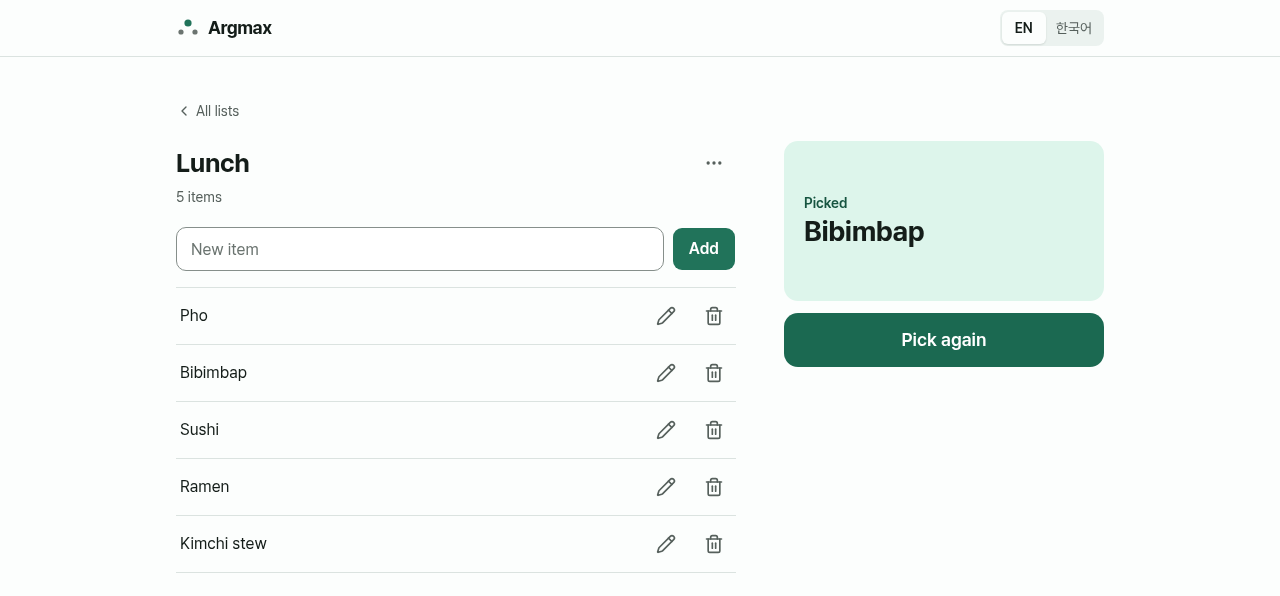
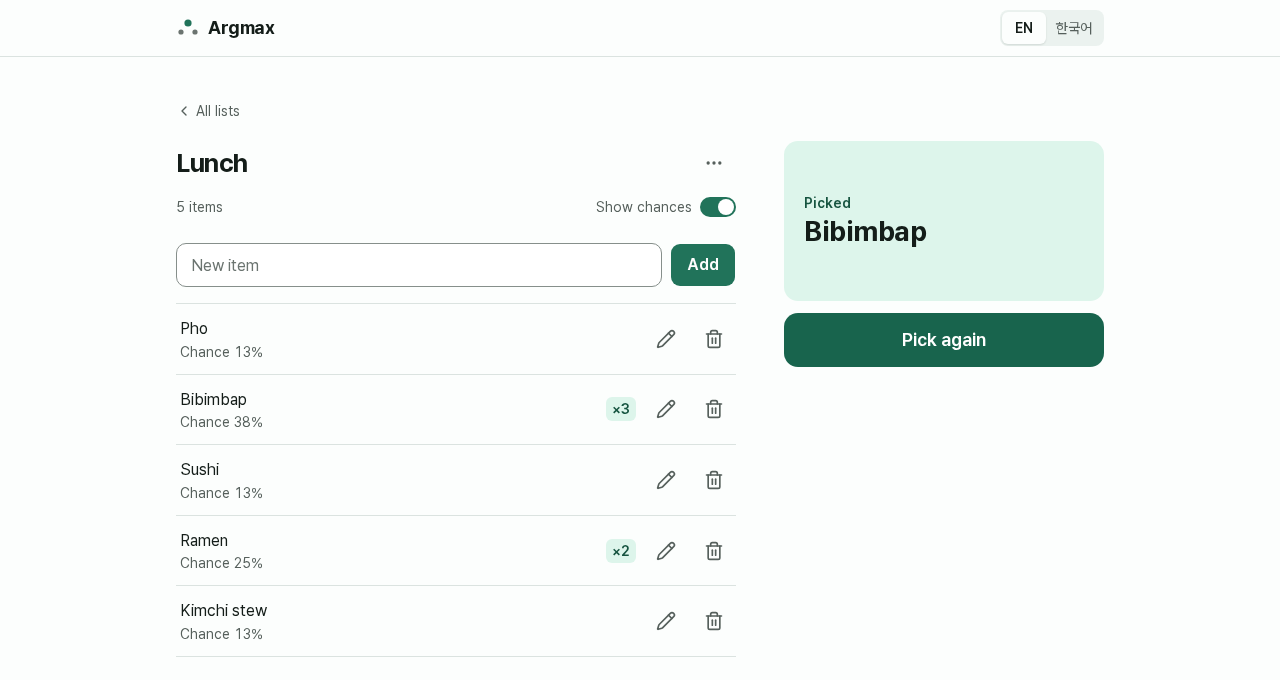
chore: prepare the 0.2.0 release (#42)
- Version 0.2.0 in package.json, and a 0.2.0 changelog section dated
  2026-10-06 that describes weights, the chances switch, share links,
  adding a shared list, and the newer-version message in user-facing
  terms; compare links follow the 0.1.0 pattern.
- README in English and Korean: weights and chances, sharing by link
  with the list after "#" and no server, and "Show chances" in the
  privacy section; the Korean privacy text says 공유 시트 as the app does.
- Screenshots of the list screen at 1280 px with two weighted items,
  chances shown, and "Bibimbap" picked, taken with Playwright against the
  production build (PNG with only IHDR, IDAT, and IEND chunks).
- DESIGN.md and src/index.css no longer tie light-only to 0.1.0.

Refs: ARG-50

diff --git a/src/i18n/ko.ts b/src/i18n/ko.ts
@@ -129,7 +129,7 @@ export const ko: Resources = {
       "저장된 데이터가 손상되었거나 알 수 없는 버전입니다. 데이터는 그대로 두고 편집을 껐습니다.",
     newerTitle: "이 탭에서는 목록을 편집할 수 없습니다",
     newerBody:
-      "더 최신 버전의 Argmax에서 저장한 목록이며 그대로 있습니다. 페이지를 새로고침하세요.",
+      "새 버전의 Argmax에서 저장한 목록입니다. 데이터는 그대로 두었으며, 페이지를 새로고침하면 새 버전으로 열립니다.",
     reload: "새로고침",
     copy: "데이터 복사",
     copied: "저장된 데이터를 복사했습니다.",

diff --git a/src/index.css b/src/index.css
@@ -3,7 +3,7 @@
 @import "shadcn/tailwind.css";
 @import "pretendard/dist/web/variable/pretendardvariable-dynamic-subset.css";
 
-/* Light only in 0.1.0 (see DESIGN.md). Without this, Tailwind maps dark: to
+/* Light only (see DESIGN.md). Without this, Tailwind maps dark: to
    prefers-color-scheme and shadcn's dark: classes would switch on by themselves. */
 @custom-variant dark (&:is(.dark *));
 

diff --git a/CHANGELOG.md b/CHANGELOG.md
@@ -6,31 +6,31 @@ The format is based on [Keep a Changelog](https://keepachangelog.com/en/1.1.0/),
 
 ## [Unreleased]
 
+## [0.2.0] - 2026-10-06
+
 ### Added
 
-- Items have a weight, 1 by default, and a pick selects each item with a chance of its weight divided by the list's total weight, still using the browser's cryptographic random source without bias.
-- The weight is set while editing an item, with − and + buttons, the arrow keys, or by typing, from ×1 to the number of items in the list; a weight left above that number after removing items can only be lowered. Save applies the text and the weight together. Items with a weight other than 1 show a ×N badge.
-- A "Show chances" switch on the list screen shows each item's chance as a whole percentage, "<1%" below 1%, or ">99%" above 99% while other items can still be picked. It is off by default and remembered in this browser.
-- Share a list from its menu as a link. The link holds the list name and each item's text and weight, compressed and encoded on the device into the part of the address after "#", so no server stores or receives it. The dialog says that anyone with the link can see the list, uses the device's share sheet where there is one and copies the link otherwise, warns when a link over 2,000 characters may be cut by some messengers, says when a list is too long for a link that another device could open, and shows the link selected for copying by hand when copying fails.
-- Opening a share link shows the list read-only in the reader's language, with its weights and chances, and Add this list, which saves a separate copy with new ids, opens it, and replaces the link in the address bar and in the history; a double click adds it once. Up to 100 lists still apply; a broken or cut-off link and a link from a newer version each get a message, and inside messenger in-app browsers such as KakaoTalk and LINE a notice suggests opening the link in the phone's browser.
-- Saved data from a newer version of Argmax shows a message that lists can't be edited in this tab, with Reload and Copy data; the data is left unchanged and cannot be deleted from this tab.
+- Weights: while editing an item, give it a weight from ×1 up to the number of items in the list. An item with weight ×3 is three times as likely to be picked as one with ×1. Items with a weight other than 1 show a ×N badge.
+- A "Show chances" switch on the list screen shows each item's chance of being picked as a percentage. It is off by default and remembered in this browser.
+- Share a list as a link from its menu. The link holds the list name, items, and weights in the part after "#", built on the device, so no server stores or receives the list; anyone with the link can see it. The device's share sheet is used where there is one; otherwise the link is copied.
+- Opening a share link shows the list read-only, with its weights and chances, and Add this list saves a separate copy in this browser. A broken link and a link that needs a newer version each say what to do, and in messenger in-app browsers such as KakaoTalk and LINE a notice suggests opening the link in the phone's browser.
+- If lists were saved by a newer version of Argmax, a tab still running an older version says it can't edit them, leaves them unchanged, and offers Reload and Copy data.
 
 ### Changed
 
-- Before the first pick, the desktop result box shows a dice icon and "Your pick appears here" instead of a dash.
-- In an item's edit row, Cancel comes before Save and is a text button.
-- With an empty list, the "Add an item to pick from." hint under Pick is read only by screen readers.
-- The privacy policy says the "Show chances" setting is saved in this browser along with the language.
-- The privacy policy says that share links are created on the device, contain the list itself, and never reach Argmax or Umami, that Argmax cannot remove a list from someone else's link, and that sharing and adding a shared list are counted as usage events without their content.
 - The list menu has Rename, Share, and, set apart, Delete list.
-- Saved data moves to schema version 2, which stores each item's weight. Lists saved by 0.1.0 load with weight 1 on every item and are written in the new format only with the next change.
+- Before the first pick, the desktop result box shows a dice icon and "Your pick appears here" instead of a dash.
+- In an item's edit row, Cancel comes before Save.
+- With an empty list, the hint under Pick is read only by screen readers.
+- Lists saved by 0.1.0 open with every item at weight ×1.
+- The privacy policy covers share links and the "Show chances" setting, and counts sharing and adding a shared list as usage events, without their content.
 
 ### Security
 
-- Names and items are limited to 1,600 UTF-16 code units in addition to 100 characters, so one character cannot carry thousands of combining marks: text over that limit keeps at most eight marks per character, which real scripts stay well below, and stacked marks are clipped so they cannot cover neighboring rows or buttons.
-- Control characters, bidirectional formatting characters, and unpaired surrogates are removed from entered names and items, and line breaks and tabs become spaces; text made only of invisible characters counts as empty. Lists saved by 0.1.0 that contain them are cleaned the same way when loaded, items left empty are dropped, and the cleaned lists are saved with the next change; data that cleaning cannot make valid, such as a list name left empty, is reported as unreadable and left unchanged.
-- The app validates lists before saving them and never writes data that it would reject when loading.
-- Share links are untrusted input: links over 64 KB are rejected before decoding, decompression stops before 256 KB, the version and data must match strict patterns, bytes must be valid UTF-8 without a byte order mark, and the list must pass the stored-data rules; text that would need more than trimming and normalizing (control or bidirectional characters, marks stacked past the length cap) is rejected, not repaired. The compressed data reaches the decompressor in small pieces, so no browser expands a crafted link far past the cap. The shared list is shown as plain text that never becomes a link, the page title never contains it, phone number detection is off, and errors are logged without link content.
+- Control characters, bidirectional formatting characters, and other invalid characters are removed from names and items, line breaks and tabs become spaces, and text made only of invisible characters counts as empty. Lists saved by 0.1.0 are cleaned the same way when they load; data that cannot be cleaned is reported as unreadable and left unchanged.
+- Text stacked with combining marks is cut back to eight marks per character once it passes a length cap, and such marks can no longer draw over neighboring rows or buttons.
+- Lists are checked before they are saved, so the app never writes data it would refuse to load.
+- Share links are treated as untrusted input: links that are too large, malformed, or contain text that would need more than trimming are rejected rather than repaired, decompression has a size cap, and the shared list is shown only as plain text, never as a link or in the page title.
 
 ## [0.1.0] - 2026-10-05
 
@@ -48,5 +48,6 @@ First release.
 - Privacy policy, security policy, security headers, and third-party license notices; a Feedback link to GitHub Issues with bug report and feature request templates.
 - Usage data without names or account details sent to Umami Cloud from the production site (screen views, list creation, and picks, with the browser language, screen size, and referring site), without list names or items, without cookies, and not when the browser sends Global Privacy Control or Do Not Track.
 
-[Unreleased]: https://github.com/dev1f965x/argmax/compare/v0.1.0...HEAD
+[Unreleased]: https://github.com/dev1f965x/argmax/compare/v0.2.0...HEAD
+[0.2.0]: https://github.com/dev1f965x/argmax/compare/v0.1.0...v0.2.0
 [0.1.0]: https://github.com/dev1f965x/argmax/releases/tag/v0.1.0

diff --git a/README.md b/README.md
@@ -9,15 +9,16 @@ Argmax is a web app for making picks: create a list, add items, and pick one at 
 
 **Use it:** <https://argmax.dev1f965x.workers.dev>
 
-![The list screen with five lunch options and "Bibimbap" picked](docs/screenshot-en.png)
+![The list screen with five lunch options, two of them weighted, chances shown, and "Bibimbap" picked](docs/screenshot-en.png)
 
 ## Features
 
 - Lists of up to 1,000 items, each up to 100 characters; up to 100 lists.
 - Pick one item at random, with a short animation, and pick again as often as you like.
+- Give an item a higher weight to make it more likely to be picked, and turn on "Show chances" to see each item's chance.
 - Add, edit, and remove items, with Undo after a removal; rename and delete lists.
 - Lists stay in this browser only, with no account, and stay in step across open tabs.
-- Share a list as a link that carries the list itself, made on the device with no server; the recipient sees it first and can add a copy.
+- Share a list as a link. The link is built on the device and carries the list in the part after `#`, so no server stores it; the recipient sees the list first and can add a copy.
 - English and Korean, following the browser's language, with a switch in the header.
 - Works with a keyboard and screen readers, checked with automated axe scans against WCAG 2.2 AA and an NVDA pass; on phones from 360 px wide to desktops.
 
@@ -69,7 +70,7 @@ To roll back, open the Worker's **Deployments** in the Cloudflare dashboard and 
 
 ## Privacy
 
-Argmax has no accounts and no cookies, and it never asks for or stores personal data. Lists and the language choice are saved only in the browser's local storage and are never sent anywhere. A share link is created on the device and holds the list in the part after `#`, which browsers do not send to servers, but the link itself stays wherever it is kept, such as chats and browser history; Argmax cannot remove a list from a link someone else has. The hosting provider, Cloudflare, processes technical request data such as IP addresses to deliver and protect the site.
+Argmax has no accounts and no cookies, and it never asks for or stores personal data. Lists, the language choice, and whether chances are shown are saved only in the browser's local storage and are never sent anywhere. A share link is created on the device and holds the list in the part after `#`, which browsers do not send to servers, but the link itself stays wherever it is kept, such as chats and browser history; Argmax cannot remove a list from a link someone else has. The hosting provider, Cloudflare, processes technical request data such as IP addresses to deliver and protect the site.
 
 The production site sends usage data without names or account details to [Umami Cloud](https://umami.is) (United States, 6-month retention) to measure how Argmax is used: screen views, list creation, picks, sharing (share sheet or copy) and adding a shared list, with first-visit flags computed from the creation times of lists stored in the browser, the browser language, the screen size, and the referring site without its path. According to Umami's open-source data model ([schema](https://github.com/umami-software/umami/blob/master/prisma/schema.prisma), checked 2026-10-04), Umami does not store IP addresses; it records the approximate location (country, region, city) derived from the IP address and the browser, operating system, and device type derived from the user agent. List names, items, and list ids are never sent; nothing is sent from development, tests, or previews, or when the browser sends Global Privacy Control or Do Not Track. The app calls Umami's event API directly, without Umami's script. The privacy page in the app has the full notice. Privacy requests that should not be public go to argmax.contact@proton.me.
 

diff --git a/DESIGN.md b/DESIGN.md
@@ -194,7 +194,7 @@ Flat by default: separation comes from dividers and tinted surfaces, not shadows
 
 ### Dark mode
 
-Not in 0.1.0. Argmax is used mostly in daylight with other people, the light palette was tuned and checked for contrast, and supporting a second theme would double visual QA for little benefit at this stage. `color-scheme: light` is set so browser controls match. Revisit if users ask for it.
+Not supported yet. Argmax is used mostly in daylight with other people, the light palette was tuned and checked for contrast, and supporting a second theme would double visual QA for little benefit at this stage. `color-scheme: light` is set so browser controls match. Revisit if users ask for it.
 
 ## Do's and Don'ts
 
